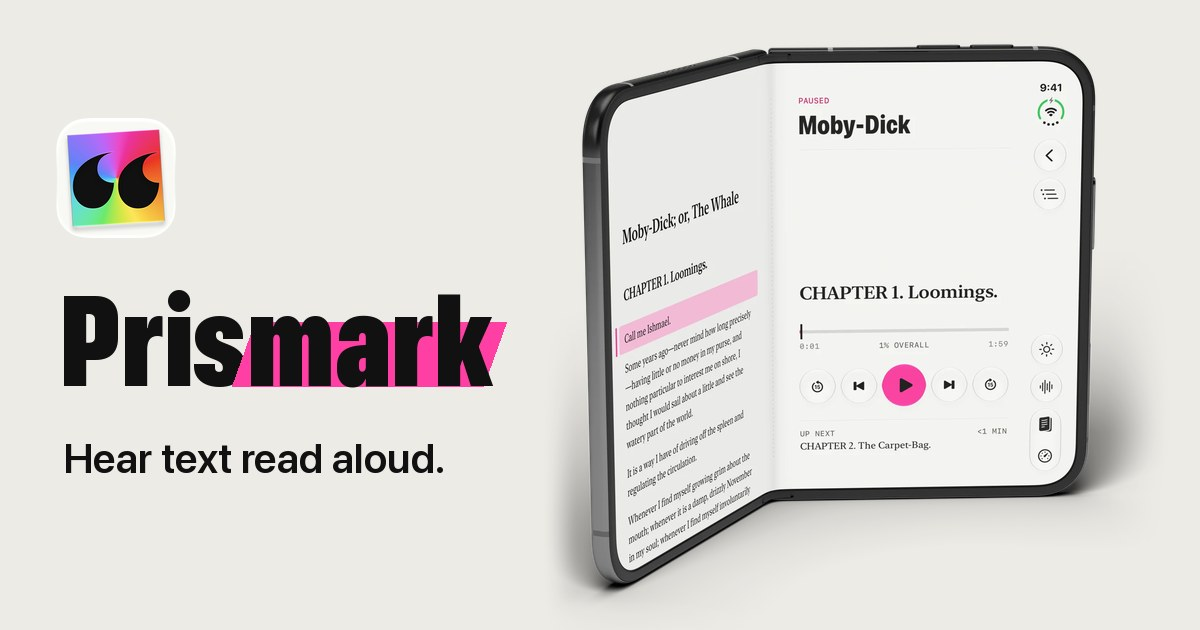
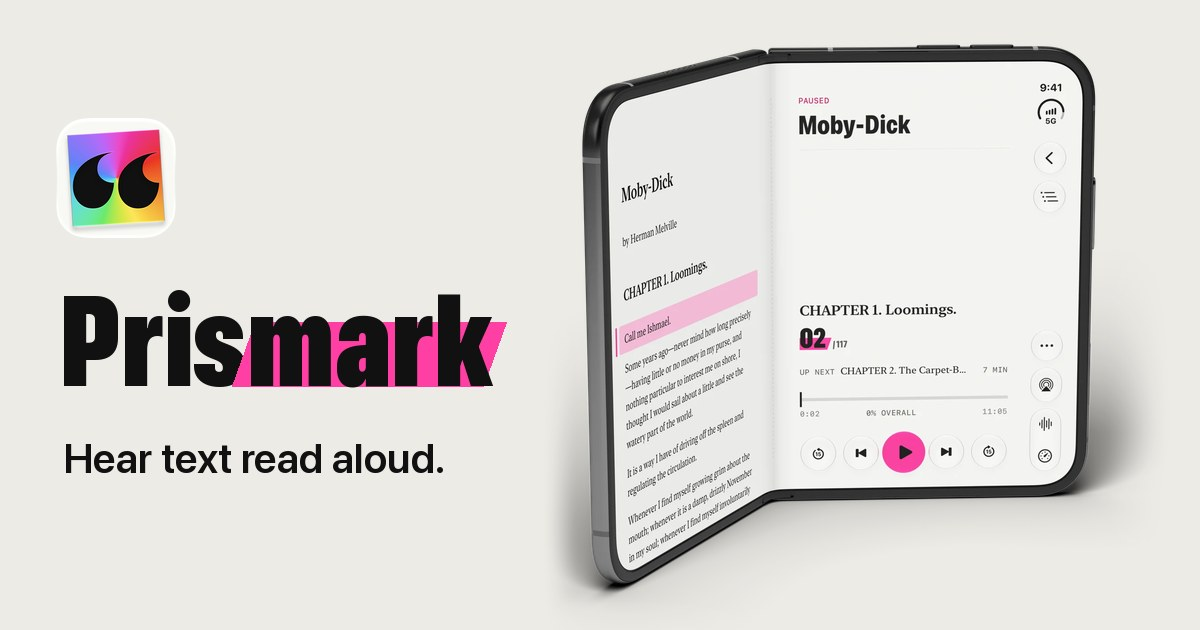
Prismark Duo renders from 1.0.2, with dark-mode versions
The homepage's standing and partly folded Duo renders, and the Prismark
and homepage sharing cards built from them, are re-rendered from fresh
captures of 1.0.2: the current player keys, the chapter scrubber, and a
5G status bar in place of Wi-Fi. Same poses, framing, sizes and
document. Dark-mode renders show the app in dark appearance and swap in
through prefers-color-scheme like the app icons, cropped to the light
renders' boxes so the layout doesn't move between modes.

diff --git a/index.html b/index.html
@@ -16,7 +16,7 @@
 <meta property="og:url" content="https://zach-coleman.com/">
 <meta property="og:title" content="Zachary Coleman | Apps, tools, and open-source software">
 <meta property="og:description" content="Apps, tools, and contributions to Godot Engine by Zachary Coleman.">
-<meta property="og:image" content="https://zach-coleman.com/assets/home/og-card.jpg?v=20261005b">
+<meta property="og:image" content="https://zach-coleman.com/assets/home/og-card.jpg?v=20261024">
 <meta property="og:image:type" content="image/jpeg">
 <meta property="og:image:width" content="1200">
 <meta property="og:image:height" content="630">
@@ -24,9 +24,10 @@
 <meta name="twitter:card" content="summary_large_image">
 <meta name="twitter:title" content="Zachary Coleman | Apps, tools, and open-source software">
 <meta name="twitter:description" content="Apps, tools, and contributions to Godot Engine by Zachary Coleman.">
-<meta name="twitter:image" content="https://zach-coleman.com/assets/home/og-card.jpg?v=20261005b">
+<meta name="twitter:image" content="https://zach-coleman.com/assets/home/og-card.jpg?v=20261024">
 <meta name="twitter:image:alt" content="Prismark open like a book on an iPhone Duo, standing in front of the name Zachary Coleman on a claret background.">
-<link rel="preload" as="image" imagesrcset="/assets/catalog/duo-standing-900.webp?v=3 900w, /assets/catalog/duo-standing-1400.webp?v=3 1400w" imagesizes="(min-width: 760px) 31vw, 74vw" fetchpriority="high">
+<link rel="preload" as="image" imagesrcset="/assets/catalog/duo-standing-900.webp?v=20261024 900w, /assets/catalog/duo-standing-1400.webp?v=20261024 1400w" imagesizes="(min-width: 760px) 31vw, 74vw" media="(prefers-color-scheme: light)" fetchpriority="high">
+<link rel="preload" as="image" imagesrcset="/assets/catalog/duo-standing-dark-900.webp?v=20261024 900w, /assets/catalog/duo-standing-dark-1400.webp?v=20261024 1400w" imagesizes="(min-width: 760px) 31vw, 74vw" media="(prefers-color-scheme: dark)" fetchpriority="high">
 <link rel="stylesheet" href="/assets/catalog/catalog.css?v=20261021-oxblood">
 <script src="/assets/home/devices.js?v=20261021-aweigh-loop" defer></script>
 </head>
@@ -55,7 +56,7 @@
     </div>
   </nav>
   <div class="stage">
-    <img class="stage-object" src="/assets/catalog/duo-standing-900.webp?v=3" srcset="/assets/catalog/duo-standing-900.webp?v=3 900w, /assets/catalog/duo-standing-1400.webp?v=3 1400w" sizes="(min-width: 760px) 31vw, 74vw" width="1400" height="1335" alt="Prismark on a partly folded iPhone Duo standing like an open book: Moby-Dick on the left page with &ldquo;Call me Ishmael.&rdquo; highlighted in pink, the player on the right." fetchpriority="high" decoding="async">
+    <picture><source media="(prefers-color-scheme: dark)" srcset="/assets/catalog/duo-standing-dark-900.webp?v=20261024 900w, /assets/catalog/duo-standing-dark-1400.webp?v=20261024 1400w" sizes="(min-width: 760px) 31vw, 74vw" width="1400" height="1335"><img class="stage-object" src="/assets/catalog/duo-standing-900.webp?v=20261024" srcset="/assets/catalog/duo-standing-900.webp?v=20261024 900w, /assets/catalog/duo-standing-1400.webp?v=20261024 1400w" sizes="(min-width: 760px) 31vw, 74vw" width="1400" height="1335" alt="Prismark on a partly folded iPhone Duo standing like an open book: Moby-Dick on the left page with &ldquo;Call me Ishmael.&rdquo; highlighted in pink, the player on the right." fetchpriority="high" decoding="async"></picture>
     <h1 class="name"><span>Zachary</span> <span>Coleman</span></h1>
   </div>
   <p class="role"><strong>iOS developer.</strong> <span>Apps, tools, and open&#8209;source software.</span></p>
@@ -74,7 +75,7 @@
     <p class="links"><a href="https://apps.apple.com/us/app/prismark/id6818318157">App Store</a> <a href="/prismark/">More about Prismark</a></p>
   </div>
   <figure class="plate plate-duo">
-    <img src="/assets/catalog/duo-fold-1100.webp?v=4" srcset="/assets/catalog/duo-fold-1100.webp?v=4 1100w, /assets/catalog/duo-fold-2000.webp?v=4 2000w" sizes="(min-width: 900px) 60vw, 100vw" width="2000" height="1106" alt="Prismark on a partly folded iPhone Duo: Moby-Dick on the left page with the spoken sentence highlighted, the player on the right." loading="lazy" decoding="async">
+    <picture><source media="(prefers-color-scheme: dark)" srcset="/assets/catalog/duo-fold-dark-1100.webp?v=20261024 1100w, /assets/catalog/duo-fold-dark-2000.webp?v=20261024 2000w" sizes="(min-width: 900px) 60vw, 100vw" width="2000" height="1106"><img src="/assets/catalog/duo-fold-1100.webp?v=20261024" srcset="/assets/catalog/duo-fold-1100.webp?v=20261024 1100w, /assets/catalog/duo-fold-2000.webp?v=20261024 2000w" sizes="(min-width: 900px) 60vw, 100vw" width="2000" height="1106" alt="Prismark on a partly folded iPhone Duo: Moby-Dick on the left page with the spoken sentence highlighted, the player on the right." loading="lazy" decoding="async"></picture>
   </figure>
 </article>
 

diff --git a/prismark/index.html b/prismark/index.html
@@ -15,12 +15,12 @@
 <meta property="og:url" content="https://zach-coleman.com/prismark/">
 <meta property="og:title" content="Prismark">
 <meta property="og:description" content="Hear text read aloud. Prismark reads whatever you give it, and marks each sentence as it goes.">
-<meta property="og:image" content="https://zach-coleman.com/assets/prismark/og-card.jpg?v=3">
+<meta property="og:image" content="https://zach-coleman.com/assets/prismark/og-card.jpg?v=4">
 <meta property="og:image:width" content="1200">
 <meta property="og:image:height" content="630">
 <meta property="og:image:alt" content="Prismark on a partly folded iPhone Duo standing like an open book, Moby-Dick on the left page and the player on the right, beside the Prismark name and the line Hear text read aloud.">
 <meta name="twitter:card" content="summary_large_image">
-<meta name="twitter:image" content="https://zach-coleman.com/assets/prismark/og-card.jpg?v=3">
+<meta name="twitter:image" content="https://zach-coleman.com/assets/prismark/og-card.jpg?v=4">
 <meta name="twitter:image:alt" content="Prismark on a partly folded iPhone Duo standing like an open book, Moby-Dick on the left page and the player on the right, beside the Prismark name and the line Hear text read aloud.">
 <link rel="preload" as="image" imagesrcset="/assets/prismark/duo-open-1400.webp?v=102 1400w, /assets/prismark/duo-open-2400.webp?v=102 2400w" imagesizes="(min-width: 900px) 56vw, 100vw" fetchpriority="high">
 <link rel="stylesheet" href="prismark.css?v=20261014-2">

diff --git a/portfolio.html b/portfolio.html
@@ -13,7 +13,7 @@
 <meta property="og:url" content="https://zach-coleman.com/">
 <meta property="og:title" content="Zachary Coleman | Apps, tools, and open-source software">
 <meta property="og:description" content="Apps, tools, and contributions to Godot Engine by Zachary Coleman.">
-<meta property="og:image" content="https://zach-coleman.com/assets/home/og-card.jpg?v=20261005b">
+<meta property="og:image" content="https://zach-coleman.com/assets/home/og-card.jpg?v=20261024">
 <meta property="og:image:type" content="image/jpeg">
 <meta property="og:image:width" content="1200">
 <meta property="og:image:height" content="630">
@@ -21,7 +21,7 @@
 <meta name="twitter:card" content="summary_large_image">
 <meta name="twitter:title" content="Zachary Coleman | Apps, tools, and open-source software">
 <meta name="twitter:description" content="Apps, tools, and contributions to Godot Engine by Zachary Coleman.">
-<meta name="twitter:image" content="https://zach-coleman.com/assets/home/og-card.jpg?v=20261005b">
+<meta name="twitter:image" content="https://zach-coleman.com/assets/home/og-card.jpg?v=20261024">
 <meta name="twitter:image:alt" content="Prismark open like a book on an iPhone Duo, standing in front of the name Zachary Coleman on a claret background.">
 <script>location.replace('/' + location.search + location.hash);</script>
 <noscript><meta http-equiv="refresh" content="0; url=/"></noscript>

diff --git a/prismark/press/index.html b/prismark/press/index.html
@@ -15,7 +15,7 @@
 <meta property="og:url" content="https://zach-coleman.com/prismark/press/">
 <meta property="og:title" content="Prismark Press Kit">
 <meta property="og:description" content="The Prismark app icon, screenshots, descriptions and facts, ready to download.">
-<meta property="og:image" content="https://zach-coleman.com/assets/prismark/og-card.jpg?v=3">
+<meta property="og:image" content="https://zach-coleman.com/assets/prismark/og-card.jpg?v=4">
 <meta property="og:image:width" content="1200">
 <meta property="og:image:height" content="630">
 <meta property="og:image:alt" content="Prismark on a partly folded iPhone Duo standing like an open book, Moby-Dick on the left page and the player on the right, beside the Prismark name and the line Hear text read aloud.">
